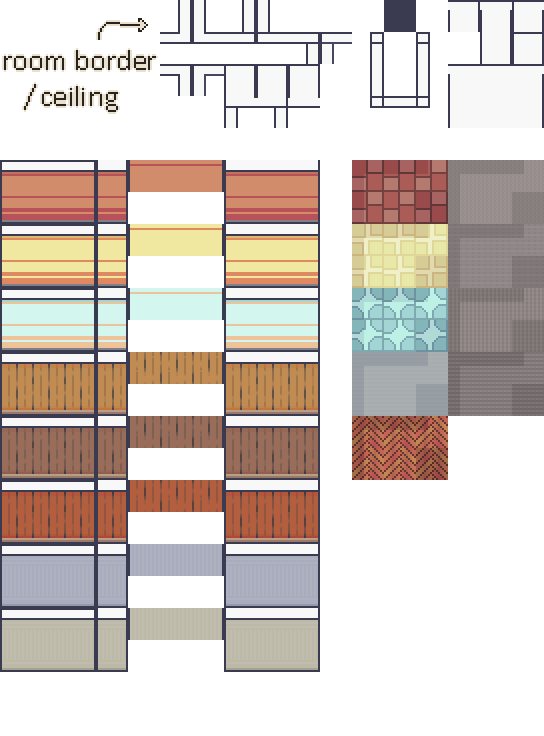
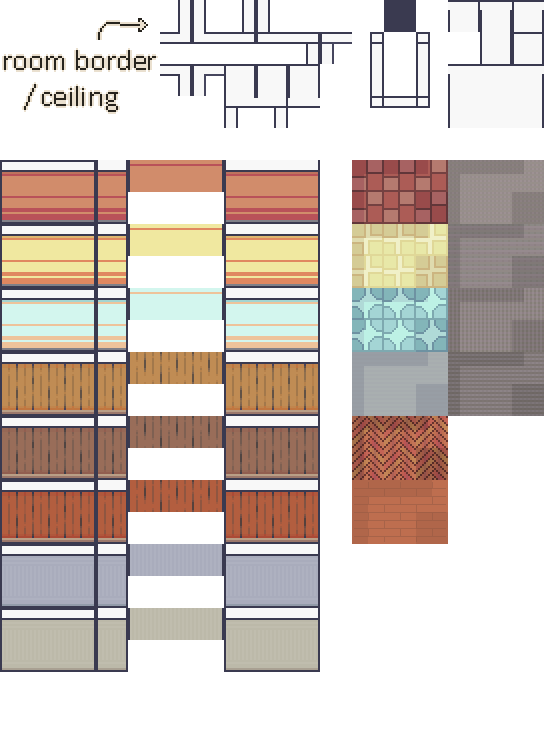
added title text

Changed region(s): [[0.625, 0.625, 0.8438, 0.75]]

diff --git a/components/systems/game/world.js b/components/systems/game/world.js
@@ -21,7 +21,7 @@ import Circle from "../../math/circle.js";
 import RectCollisionShape from "../../collision/rectCollisionShape.js";
 import SpriteImage from "../../options/sprite_options.js";
 import ImageLoader from "../../type/imageLoader.js";
-
+import AreaTitleHandler from "../../ui/areaTitle.js";
 export default class World {
     /**
      * @param {string} canvasId 
@@ -70,7 +70,7 @@ export default class World {
         /** @type {Entity[]} */ this.entities = [];
         /** @type {GameObject[]} */ this.world_objects = [];
 
-        
+        this.areaTitleHandler = new AreaTitleHandler();
         this.camera = new Camera2D(0, 0, this.zoom, this.world);
 
         this.level = null;
@@ -84,7 +84,6 @@ export default class World {
         this.parallaxBackground = new Parallax()
         /**@type {CollisionShape[]} */ this.colliders = [];
 
-        this.fontHandler = new CustomCanvasFont();
         this.fontLoaded = false;
         CollisionSystem.init();
     }
@@ -218,9 +217,7 @@ export default class World {
             this.ctx.drawImage(this.mapBackground, 0, 0);
             this.ctx.drawImage(this.mapUndertile, 0, 0);
             this.ctx.drawImage(this.mapBuffer, 0, 0);
-            for(let text of this.map.texts){
-                this.fontHandler.draw(this.fontCtx, text);
-            }
+            
         } 
         for(let entity of this.entities){
             if(entity.draw) entity.draw(this.ctx, entity.position); 
@@ -304,12 +301,10 @@ export default class World {
         for(let area of areas){
             const rect = new RectCollisionShape(new Rect(area.x, area.y, area.width, area.height))
             const ar = new Area2D(rect);
-            const bodyEntered = ()=>{
-                console.log(area.name);
-            }
-            ar.on('body_entered', bodyEntered);
+            ar.on('body_entered', ()=>this.areaTitleHandler.addTitleText(area.name));
+            ar.on('body_exited', ()=> this.areaTitleHandler.removeText(area.name))
         }
-        for(let obj of objects){
+        for(let obj of objects) {
             const circle = new CircleCollisionShape(new Circle(new Vector2(obj.x, obj.y), 30))
             const area = new Area2D(circle)
             const bodyEntered =()=>{ 

diff --git a/style.css b/style.css
@@ -3,6 +3,8 @@
     src: url(assets/fonts/editundo.ttf);
 }
 *{
+    color: rgb(241, 241, 241);
+    font-family: 'Pixel Font';
     box-sizing: border-box;
     margin: 0;
     border: 0;
@@ -42,7 +44,7 @@ button:focus{
 
 #dialouge-box{
     position: absolute;
-    bottom: 10vh;
+    bottom: 15vh;
     right: 5vw;
     overflow-y: auto;   
     scroll-behavior: smooth;
@@ -132,9 +134,10 @@ button:focus{
 #mobile-hud{
     position: absolute;
     align-items: end;
-    
     padding: clamp(1rem, 2vw ,2rem); 
 }
+
+
 #controller{
     width: 100%;
     display: flex;
@@ -145,6 +148,27 @@ button:focus{
 #mobile-hud div div{
     display: flex;
     gap: clamp(1rem, 2vw ,2rem);
+}
+
+#title-box{
+    overflow: hidden;
+    width: 100%;
+    display: flex;
+    justify-content: center;
+    position: absolute;
+    top: 10vh;
+}
+
+.area-title{
+    text-shadow: 1px 1px 4px rgba(0, 0, 0, 0.85);
+    font-size: clamp(1rem, 2vw + 1rem, 3rem);
+}
+
+.slide-in{
+    animation: slide-in 0.3s linear;
+}
+.slide-out{
+    animation: slide-out 0.3s ease-out;
 }
 
 .directional-button{
@@ -188,10 +212,31 @@ button:focus{
     flex-direction: column;
 }
 
-@media (min-width: 768px) {
+@media (min-width: 600px) {
     #dialouge-box{
-    top: 50%;
-    bottom: auto;
-    right: 20vw;
+        top: 50%;
+        bottom: auto;
+        right: 20vw;
+    }
+}
+
+@keyframes slide-in {
+    from{
+        transform: translateY(-100%);
+        opacity: 0;
+    }
+    to{
+        transform: translateY(0);
+        opacity: 1;
+    }
+}
+@keyframes slide-out {
+    from{
+        transform: translateY(0);
+        opacity: 1;
+    }
+    to{
+        transform: translateY(-100%);
+        opacity: 0;
     }
 }

diff --git a/components/ui/areaTitle.js b/components/ui/areaTitle.js
@@ -1,0 +1,54 @@
+export default class AreaTitleHandler{
+    constructor(){
+        this.textBox = document.getElementById('title-box');
+        this.removeTimer = null;
+    }
+    /**@param {string} text */
+    async addTitleText(text, stayMs = 2000){
+        if (this.removeTimer) {
+            clearTimeout(this.removeTimer);
+            this.removeTimer = null;
+        }
+
+        await this.removeCurrentChild();    
+
+        const div = document.createElement('div');
+        div.id = text;
+        const p = document.createElement('p');
+        p.innerHTML = text.toUpperCase();
+        div.appendChild(p);
+        this.textBox.appendChild(div);
+        p.classList.add('area-title', 'slide-in');
+
+        p.addEventListener('animationend', ()=>{
+            this.removeTimer = setTimeout(()=> this.removeText(text), stayMs);
+        })
+        
+    }
+    removeCurrentChild(){
+        const current = this.textBox.firstElementChild;
+        if(!current) return Promise.resolve();
+
+        return new Promise(resolve =>{
+            const p = current.children[0];
+            p.classList.add('slide-out');
+
+            p.addEventListener('animationend', () => {
+            current.remove();
+            resolve();
+            }, { once: true });
+        });
+    }
+    
+    removeText(text){
+        const div = document.getElementById(text);
+        if (!div) return;
+
+        if (div === this.textBox.firstElementChild) {
+            return this.removeCurrentChild();
+        }
+
+        div.remove();
+        
+    }
+}

diff --git a/index.html b/index.html
@@ -13,15 +13,16 @@
         <canvas id="game-canvas"></canvas>
     </div>
     <div class="ui" id="main-ui">
+        <div id="title-box"></div>
         <div class="ui" id="mobile-hud">
             <div id="controller">
-                <div>
-                    <button class="directional-button" data-direction="A">◄</button>
-                    <button class="directional-button" data-direction="D">►</button>
-                </div>
                 <div class="vertical">
                     <button class="directional-button" data-direction="W">▲</button>
                     <button class="directional-button" data-direction="S">▼</button>
+                </div>
+                <div>
+                    <button class="directional-button" data-direction="A">◄</button>
+                    <button class="directional-button" data-direction="D">►</button>
                 </div>
             </div>
         </div>
